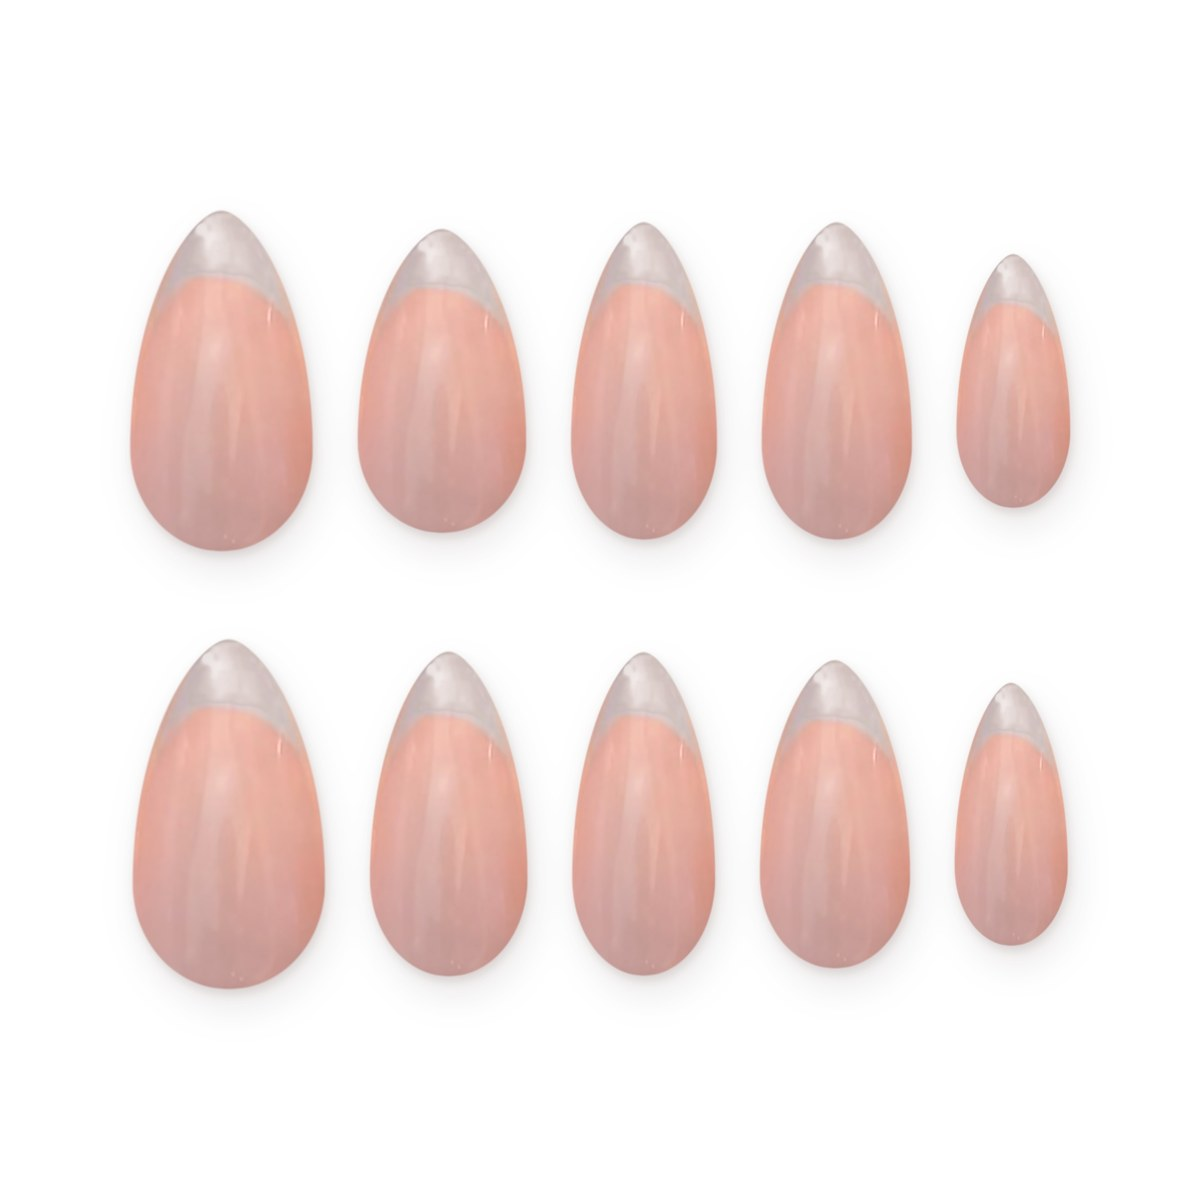
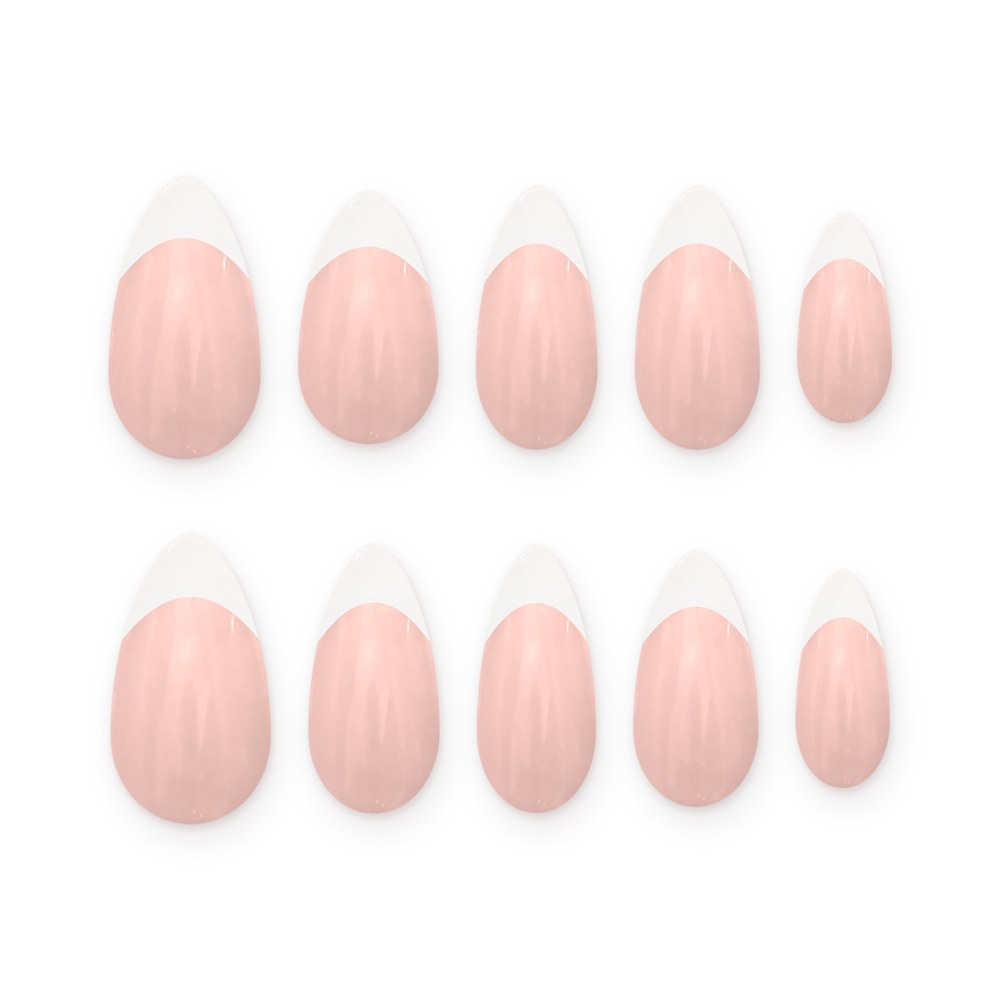
Glazed en vez de cromados y francesitas con punta blanca
Claude-Session: https://claude.ai/code/session_0139vD7MK8qAuBV582Hdbfkc

Changed region(s): [[0.093, 0.155, 0.899, 0.465], [0.31, 0.527, 0.899, 0.837], [0.093, 0.527, 0.279, 0.837]]

diff --git a/index.html b/index.html
@@ -190,9 +190,9 @@ footer a{color:#E3D8D4;margin-right:20px}
         <a class="btn btn-outline" href="https://wa.me/5491123651963?text=%C2%A1Hola%21%20Te%20hablo%20para%20hacerte%20un%20pedido%20de%20press%20on%20%F0%9F%92%85" target="_blank" rel="noopener">Pedir este set</a>
       </article>
       <article class="card" >
-        <div class="card-img" style="background:#fff"><img src="img/press-on-cromados.jpg" alt="Uñas press on cromados almendra" loading="lazy" style="width:100%;height:100%;object-fit:cover"></div>
-        <div class="card-head"><h3>Cromados</h3><p class="price">Consultar precio</p></div>
-        <p class="card-desc">Cromado blanco perla: brillo nacarado suave con reflejos rosados, súper elegante.</p>
+        <div class="card-img" style="background:#fff"><img src="img/press-on-glazed.jpg" alt="Uñas press on glazed almendra" loading="lazy" style="width:100%;height:100%;object-fit:cover"></div>
+        <div class="card-head"><h3>Glazed</h3><p class="price">Consultar precio</p></div>
+        <p class="card-desc">Efecto glazed blanco perla: brillo nacarado suave con reflejos rosados, súper elegante.</p>
         <a class="btn btn-outline" href="https://wa.me/5491123651963?text=%C2%A1Hola%21%20Te%20hablo%20para%20hacerte%20un%20pedido%20de%20press%20on%20%F0%9F%92%85" target="_blank" rel="noopener">Pedir este set</a>
       </article>
 </div>
